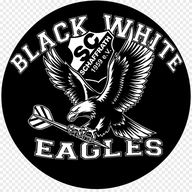
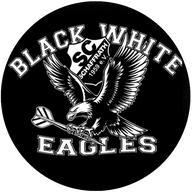
Add files via upload

diff --git a/vereinsspieltag.js b/vereinsspieltag.js
@@ -39,24 +39,68 @@ function renderAttendance(){$('attendanceList').innerHTML=state.members.length?s
 function bracketSize(n){return n<=4?4:n<=8?8:16}
 function shuffle(a){a=[...a];for(let i=a.length-1;i>0;i--){const j=Math.floor(Math.random()*(i+1));[a[i],a[j]]=[a[j],a[i]]}return a}
 function memberName(id){return state.members.find(m=>m.id===id)?.name||'Offen'}
+function collectRoundConfig(){const cfg={};document.querySelectorAll('[data-round-config]').forEach(row=>{cfg[row.dataset.roundConfig]={format:row.querySelector('[data-format]').value,toWin:+row.querySelector('[data-win]').value||3,legsPerSet:+row.querySelector('[data-legs-set]').value||3}});return cfg}
+function roundRule(c,r){return c.roundConfig?.[r]||{format:'legs',toWin:c.legsToWin||3,legsPerSet:3}}
+function ruleText(rule){return rule.format==='sets'?`First to ${rule.toWin} Sets · ${rule.legsPerSet} Legs pro Set`:`First to ${rule.toWin} Legs`}
 function makeKO(ids,mode){const size=bracketSize(ids.length),slots=shuffle(ids).concat(Array(size-ids.length).fill(null));const names=size===16?['Achtelfinale','Viertelfinale','Halbfinale','Finale']:size===8?['Viertelfinale','Halbfinale','Finale']:['Halbfinale','Finale'];const matches={};names.forEach((r,ri)=>matches[r]=Array(size/2**(ri+1)).fill(0).map((_,i)=>({id:uid(),p1:ri?null:slots[i*2],p2:ri?null:slots[i*2+1],s1:null,s2:null,winner:null,completed:false,bye:false})));return{engine:'ko',mode,rounds:names,matches,size}}
 function autoAdvance(c){c.rounds.forEach((r,ri)=>c.matches[r].forEach((m,mi)=>{if(ri===0&&!m.completed&&((m.p1&&!m.p2)||(!m.p1&&m.p2))){m.winner=m.p1||m.p2;m.completed=true;m.bye=true}if(m.completed&&m.winner&&ri<c.rounds.length-1){const n=c.matches[c.rounds[ri+1]][Math.floor(mi/2)];if(mi%2===0)n.p1=m.winner;else n.p2=m.winner}}))}
-function swissStandings(c){const s={};c.attendees.forEach(id=>s[id]={id,mp:0,wins:0,legsFor:0,legsAgainst:0,opponents:[]});(c.swissMatches||[]).flat().forEach(m=>{if(!m.completed)return;if(m.bye){s[m.p1].mp+=2;s[m.p1].wins++;return}s[m.p1].legsFor+=m.s1;s[m.p1].legsAgainst+=m.s2;s[m.p2].legsFor+=m.s2;s[m.p2].legsAgainst+=m.s1;s[m.p1].opponents.push(m.p2);s[m.p2].opponents.push(m.p1);s[m.winner].mp+=2;s[m.winner].wins++});return Object.values(s).sort((a,b)=>b.mp-a.mp||(b.legsFor-b.legsAgainst)-(a.legsFor-a.legsAgainst)||b.legsFor-a.legsFor)}
-function pairSwiss(c){const played=new Set();(c.swissMatches||[]).flat().forEach(m=>{if(m.p1&&m.p2)played.add([m.p1,m.p2].sort().join('|'))});let pool=swissStandings(c).map(x=>x.id),matches=[];while(pool.length){const p1=pool.shift();if(!pool.length){matches.push({id:uid(),p1,p2:null,s1:1,s2:0,winner:p1,completed:true,bye:true});break}let idx=pool.findIndex(p2=>!played.has([p1,p2].sort().join('|')));if(idx<0)idx=0;const p2=pool.splice(idx,1)[0];matches.push({id:uid(),p1,p2,s1:null,s2:null,winner:null,completed:false,bye:false})}c.swissMatches.push(matches)}
+function swissStandings(c){const s={};c.attendees.forEach(id=>s[id]={id,mp:0,wins:0,legsFor:0,legsAgainst:0,opponents:[],byes:0,buchholz:0});(c.swissMatches||[]).flat().forEach(m=>{if(!m.completed)return;if(m.bye){s[m.p1].mp+=2;s[m.p1].wins++;s[m.p1].byes++;return}s[m.p1].legsFor+=m.s1;s[m.p1].legsAgainst+=m.s2;s[m.p2].legsFor+=m.s2;s[m.p2].legsAgainst+=m.s1;s[m.p1].opponents.push(m.p2);s[m.p2].opponents.push(m.p1);s[m.winner].mp+=2;s[m.winner].wins++});Object.values(s).forEach(x=>x.buchholz=x.opponents.reduce((sum,id)=>sum+(s[id]?.mp||0),0));return Object.values(s).sort((a,b)=>b.mp-a.mp||b.buchholz-a.buchholz||(b.legsFor-b.legsAgainst)-(a.legsFor-a.legsAgainst)||b.legsFor-a.legsFor)}
+function pairSwiss(c){const played=new Set();(c.swissMatches||[]).flat().forEach(m=>{if(m.p1&&m.p2)played.add([m.p1,m.p2].sort().join('|'))});let pool=swissStandings(c).map(x=>x.id),matches=[];if(pool.length%2===1){const standings=swissStandings(c);let byeId=[...standings].reverse().find(x=>x.byes===0)?.id||pool.at(-1);pool=pool.filter(id=>id!==byeId);matches.push({id:uid(),p1:byeId,p2:null,s1:1,s2:0,winner:byeId,completed:true,bye:true})}while(pool.length){const p1=pool.shift();let idx=pool.findIndex(p2=>!played.has([p1,p2].sort().join('|')));if(idx<0)idx=0;const p2=pool.splice(idx,1)[0];matches.push({id:uid(),p1,p2,s1:null,s2:null,winner:null,completed:false,bye:false})}c.swissMatches.push(matches)}
 
-function renderCurrent(){const c=state.current;if(!c){$('currentDayTitle').textContent='Aktueller Spieltag';$('currentDayInfo').textContent='Kein Spieltag gestartet.';$('currentStatus').textContent='Bereit';$('dayWorkspace').innerHTML='<div class="empty-state">Der Admin wählt im Bereich Verwaltung die anwesenden Spieler und den Turniermodus aus.</div>';return}$('currentDayTitle').textContent=MODES[c.mode];$('currentDayInfo').textContent=`${c.date} · ${c.attendees.length} Teilnehmer · ${c.out} · First to ${c.legsToWin} Legs`;$('currentStatus').textContent='Läuft';if(c.engine==='ko')renderKO(c);else if(c.engine==='swiss')renderSwiss(c);else renderManual(c)}
+function renderCurrent(){const c=state.current;if(!c){$('currentDayTitle').textContent='Aktueller Spieltag';$('currentDayInfo').textContent='Kein Spieltag gestartet.';$('currentStatus').textContent='Bereit';$('dayWorkspace').innerHTML='<div class="empty-state">Der Admin wählt im Bereich Verwaltung die anwesenden Spieler und den Turniermodus aus.</div>';return}$('currentDayTitle').textContent=MODES[c.mode];$('currentDayInfo').textContent=`${c.date} · ${c.attendees.length} Teilnehmer · ${c.out}`;$('currentStatus').textContent='Läuft';if(c.engine==='ko')renderKO(c);else if(c.engine==='swiss')renderSwiss(c);else if(c.engine==='groups')renderGroups(c);else renderManual(c)}
 function renderKO(c){autoAdvance(c);$('dayWorkspace').innerHTML=`<div class="bracket">${c.rounds.map(r=>`<div class="round-column"><h3>${r}</h3>${c.matches[r].map((m,i)=>koMatch(r,m,i)).join('')}</div>`).join('')}</div><div class="workspace-actions admin-only"><button id="finishCurrent" class="primary">Spieltag abschließen</button></div>`;document.querySelectorAll('[data-ko-save]').forEach(b=>b.onclick=()=>saveKOMatch(b.dataset.round,+b.dataset.index));const final=c.matches[c.rounds.at(-1)][0];$('finishCurrent').disabled=!final?.completed;$('finishCurrent').onclick=finishCurrent}
-function koMatch(r,m,i){const ready=m.p1&&m.p2&&!m.completed;return`<div class="match-card"><small>${r} ${i+1}</small><div class="match-player ${m.winner===m.p1?'winner':''}"><span>${m.p1?esc(memberName(m.p1)):'—'}</span><input id="a-${m.id}" type="number" min="0" value="${m.s1??''}" ${!ready||!isAdmin?'disabled':''}></div><div class="match-player ${m.winner===m.p2?'winner':''}"><span>${m.p2?esc(memberName(m.p2)):'—'}</span><input id="b-${m.id}" type="number" min="0" value="${m.s2??''}" ${!ready||!isAdmin?'disabled':''}></div>${m.bye?'<div class="bye">Freilos</div>':`<button data-ko-save="1" data-round="${r}" data-index="${i}" ${!ready||!isAdmin?'disabled':''}>Ergebnis speichern</button>`}</div>`}
-async function saveKOMatch(r,i){const m=state.current.matches[r][i],a=+$(`a-${m.id}`).value,b=+$(`b-${m.id}`).value;if(a===b||a<0||b<0)return toast('Bitte ein eindeutiges Ergebnis eintragen.');m.s1=a;m.s2=b;m.winner=a>b?m.p1:m.p2;m.completed=true;autoAdvance(state.current);await save();toast('Ergebnis gespeichert.')}
+function koMatch(r,m,i){const ready=m.p1&&m.p2&&!m.completed,rule=roundRule(state.current,r),setMode=rule.format==='sets';return`<div class="match-card"><small>${r} ${i+1}</small><span class="match-rule">${ruleText(rule)}</span><div class="match-player ${m.winner===m.p1?'winner':''}"><span>${m.p1?esc(memberName(m.p1)):'—'}</span><input id="a-${m.id}" type="number" min="0" value="${m.s1??''}" ${!ready||!isAdmin?'disabled':''}></div><div class="match-player ${m.winner===m.p2?'winner':''}"><span>${m.p2?esc(memberName(m.p2)):'—'}</span><input id="b-${m.id}" type="number" min="0" value="${m.s2??''}" ${!ready||!isAdmin?'disabled':''}></div>${setMode&&ready?`<div class="set-leg-inputs"><label>Legs ${esc(memberName(m.p1))}<input id="la-${m.id}" type="number" min="0" value="${m.legs1??''}"></label><label>Legs ${esc(memberName(m.p2))}<input id="lb-${m.id}" type="number" min="0" value="${m.legs2??''}"></label></div>`:''}${m.bye?'<div class="bye">Freilos</div>':`<button data-ko-save="1" data-round="${r}" data-index="${i}" ${!ready||!isAdmin?'disabled':''}>Ergebnis speichern</button>`}</div>`}
+async function saveKOMatch(r,i){const m=state.current.matches[r][i],rule=roundRule(state.current,r),a=+$(`a-${m.id}`).value,b=+$(`b-${m.id}`).value;if(a===b||a<0||b<0)return toast('Bitte ein eindeutiges Ergebnis eintragen.');if(Math.max(a,b)!==rule.toWin||Math.min(a,b)>=rule.toWin)return toast(`Der Sieger muss genau ${rule.toWin} ${rule.format==='sets'?'Sets':'Legs'} erreichen.`);m.s1=a;m.s2=b;m.legs1=rule.format==='sets'?+( $(`la-${m.id}`)?.value||0):a;m.legs2=rule.format==='sets'?+( $(`lb-${m.id}`)?.value||0):b;m.winner=a>b?m.p1:m.p2;m.completed=true;autoAdvance(state.current);await save();toast('Ergebnis gespeichert.')}
 
-function renderSwiss(c){const standings=swissStandings(c),round=c.swissMatches.length,current=c.swissMatches.at(-1)||[];const roundDone=current.length&&current.every(m=>m.completed);$('dayWorkspace').innerHTML=`<div class="swiss-header"><h3>Runde ${round} von ${c.totalRounds}</h3><span class="pill">Schweizer System</span></div><div class="table-scroll"><table class="swiss-table"><thead><tr><th>#</th><th>Spieler</th><th>MP</th><th>Siege</th><th>Leg-Diff.</th></tr></thead><tbody>${standings.map((x,i)=>`<tr><td>${i+1}</td><td>${esc(memberName(x.id))}</td><td>${x.mp}</td><td>${x.wins}</td><td>${x.legsFor-x.legsAgainst}</td></tr>`).join('')}</tbody></table></div><h3>Paarungen Runde ${round}</h3>${current.map((m,i)=>swissMatch(m,i)).join('')}<div class="workspace-actions admin-only">${round<c.totalRounds?`<button id="nextSwiss" class="primary" ${!roundDone?'disabled':''}>Nächste Runde auslosen</button>`:`<button id="finishCurrent" class="primary" ${!roundDone?'disabled':''}>Spieltag abschließen</button>`}</div>`;document.querySelectorAll('[data-swiss-save]').forEach(b=>b.onclick=()=>saveSwissMatch(+b.dataset.index));if($('nextSwiss'))$('nextSwiss').onclick=async()=>{pairSwiss(c);await save()};if($('finishCurrent'))$('finishCurrent').onclick=finishCurrent}
+function renderSwiss(c){const standings=swissStandings(c),round=c.swissMatches.length,current=c.swissMatches.at(-1)||[];const roundDone=current.length&&current.every(m=>m.completed);$('dayWorkspace').innerHTML=`<div class="swiss-header"><h3>Runde ${round} von ${c.totalRounds}</h3><span class="pill">Schweizer System</span></div><div class="table-scroll"><table class="swiss-table"><thead><tr><th>#</th><th>Spieler</th><th>MP</th><th>Buchholz</th><th>Siege</th><th>Leg-Diff.</th></tr></thead><tbody>${standings.map((x,i)=>`<tr><td>${i+1}</td><td>${esc(memberName(x.id))}</td><td>${x.mp}</td><td>${x.buchholz}</td><td>${x.wins}</td><td>${x.legsFor-x.legsAgainst}</td></tr>`).join('')}</tbody></table></div><h3>Paarungen Runde ${round}</h3>${current.map((m,i)=>swissMatch(m,i)).join('')}<div class="workspace-actions admin-only">${round<c.totalRounds?`<button id="nextSwiss" class="primary" ${!roundDone?'disabled':''}>Nächste Runde auslosen</button>`:`<button id="finishCurrent" class="primary" ${!roundDone?'disabled':''}>Spieltag abschließen</button>`}</div>`;document.querySelectorAll('[data-swiss-save]').forEach(b=>b.onclick=()=>saveSwissMatch(+b.dataset.index));if($('nextSwiss'))$('nextSwiss').onclick=async()=>{pairSwiss(c);await save()};if($('finishCurrent'))$('finishCurrent').onclick=finishCurrent}
 function swissMatch(m,i){if(m.bye)return`<div class="swiss-match"><strong>${esc(memberName(m.p1))}</strong> – Freilos</div>`;return`<div class="swiss-match"><div class="match-player"><span>${esc(memberName(m.p1))}</span><input id="sa-${m.id}" type="number" min="0" value="${m.s1??''}" ${m.completed||!isAdmin?'disabled':''}></div><div class="match-player"><span>${esc(memberName(m.p2))}</span><input id="sb-${m.id}" type="number" min="0" value="${m.s2??''}" ${m.completed||!isAdmin?'disabled':''}></div><button data-swiss-save="1" data-index="${i}" ${m.completed||!isAdmin?'disabled':''}>Ergebnis speichern</button></div>`}
-async function saveSwissMatch(i){const m=state.current.swissMatches.at(-1)[i],a=+$(`sa-${m.id}`).value,b=+$(`sb-${m.id}`).value;if(a===b||a<0||b<0)return toast('Bitte ein eindeutiges Ergebnis eintragen.');m.s1=a;m.s2=b;m.winner=a>b?m.p1:m.p2;m.completed=true;await save()}
+async function saveSwissMatch(i){const m=state.current.swissMatches.at(-1)[i],a=+$(`sa-${m.id}`).value,b=+$(`sb-${m.id}`).value;if(a===b||a<0||b<0)return toast('Bitte ein eindeutiges Ergebnis eintragen.');const target=state.current.legsToWin||3;if(Math.max(a,b)!==target||Math.min(a,b)>=target)return toast(`Der Sieger muss genau ${target} Legs erreichen.`);m.s1=a;m.s2=b;m.winner=a>b?m.p1:m.p2;m.completed=true;await save()}
+
+
+function autoGroupCount(n){return n<=8?2:n<=12?3:4}
+function rankingPoints(id){return season()?.ranking?.[id]?.points||0}
+function makeGroups(ids,count,drawMode){
+  let ordered=drawMode==='seeded'?[...ids].sort((a,b)=>rankingPoints(b)-rankingPoints(a)||memberName(a).localeCompare(memberName(b),'de')):shuffle(ids);
+  const groups=Array.from({length:count},(_,i)=>({id:String.fromCharCode(65+i),players:[],matches:[]}));
+  if(drawMode==='seeded'){
+    let index=0,dir=1;
+    ordered.forEach(id=>{groups[index].players.push(id);if(dir===1&&index===groups.length-1)dir=-1;else if(dir===-1&&index===0)dir=1;else index+=dir});
+  }else ordered.forEach((id,i)=>groups[i%count].players.push(id));
+  groups.forEach(g=>{for(let i=0;i<g.players.length;i++)for(let j=i+1;j<g.players.length;j++)g.matches.push({id:uid(),p1:g.players[i],p2:g.players[j],s1:null,s2:null,winner:null,completed:false})});
+  return groups;
+}
+function groupStandings(g){
+  const map={};g.players.forEach(id=>map[id]={id,mp:0,wins:0,legsFor:0,legsAgainst:0});
+  g.matches.forEach(m=>{if(!m.completed)return;map[m.p1].legsFor+=m.s1;map[m.p1].legsAgainst+=m.s2;map[m.p2].legsFor+=m.s2;map[m.p2].legsAgainst+=m.s1;map[m.winner].mp+=2;map[m.winner].wins++});
+  return Object.values(map).sort((a,b)=>b.mp-a.mp||(b.legsFor-b.legsAgainst)-(a.legsFor-a.legsAgainst)||b.legsFor-a.legsFor||memberName(a.id).localeCompare(memberName(b.id),'de'));
+}
+function allGroupMatchesDone(c){return c.groups.every(g=>g.matches.every(m=>m.completed))}
+function renderGroups(c){
+  const done=allGroupMatchesDone(c);
+  $('dayWorkspace').innerHTML=`<div class="group-phase-head"><div><h3>Gruppenphase</h3><p>${c.groups.length} Gruppen · Weiter: ${c.qualifyPlaces.map(x=>'Platz '+x).join(', ')}</p></div><span class="pill">${done?'Bereit für K.-o.':'Läuft'}</span></div><div class="group-grid">${c.groups.map(g=>groupCard(c,g)).join('')}</div><div class="workspace-actions admin-only"><button id="createGroupKO" class="primary" ${!done?'disabled':''}>K.-o.-Phase erstellen</button></div>`;
+  document.querySelectorAll('[data-group-save]').forEach(b=>b.onclick=()=>saveGroupMatch(b.dataset.group,+b.dataset.index));
+  $('createGroupKO').onclick=createGroupKO;
+}
+function groupCard(c,g){const standings=groupStandings(g);return`<article class="group-card"><h3>Gruppe ${g.id}</h3><table class="group-table"><thead><tr><th>#</th><th>Spieler</th><th>SP</th><th>S</th><th>Diff.</th></tr></thead><tbody>${standings.map((x,i)=>`<tr class="${c.qualifyPlaces.includes(i+1)?'qualified-row':''}"><td>${i+1}</td><td>${esc(memberName(x.id))}</td><td>${x.mp}</td><td>${x.wins}</td><td>${x.legsFor-x.legsAgainst}</td></tr>`).join('')}</tbody></table>${g.matches.map((m,i)=>groupMatch(c,g,m,i)).join('')}</article>`}
+function groupMatch(c,g,m,i){return`<div class="group-match"><div class="match-player ${m.winner===m.p1?'winner':''}"><span>${esc(memberName(m.p1))}</span><input id="ga-${m.id}" type="number" min="0" value="${m.s1??''}" ${m.completed||!isAdmin?'disabled':''}></div><div class="match-player ${m.winner===m.p2?'winner':''}"><span>${esc(memberName(m.p2))}</span><input id="gb-${m.id}" type="number" min="0" value="${m.s2??''}" ${m.completed||!isAdmin?'disabled':''}></div><button data-group-save="1" data-group="${g.id}" data-index="${i}" ${m.completed||!isAdmin?'disabled':''}>Ergebnis speichern</button></div>`}
+async function saveGroupMatch(groupId,i){const g=state.current.groups.find(x=>x.id===groupId),m=g.matches[i],a=+$(`ga-${m.id}`).value,b=+$(`gb-${m.id}`).value,target=state.current.groupLegsToWin||3;if(a===b||a<0||b<0)return toast('Bitte ein eindeutiges Ergebnis eintragen.');if(Math.max(a,b)!==target||Math.min(a,b)>=target)return toast(`Der Sieger muss genau ${target} Legs erreichen.`);m.s1=a;m.s2=b;m.winner=a>b?m.p1:m.p2;m.completed=true;await save();toast('Gruppenergebnis gespeichert.')}
+function createGroupKO(){
+  const c=state.current,qualified=[];
+  c.groups.forEach(g=>{const table=groupStandings(g);c.qualifyPlaces.forEach(place=>{const x=table[place-1];if(x)qualified.push({...x,group:g.id,groupPlace:place})})});
+  if(qualified.length<2)return toast('Es kommen zu wenige Spieler weiter.');
+  if(qualified.length>16)return toast('Maximal 16 Spieler können in die K.-o.-Phase einziehen.');
+  qualified.sort((a,b)=>a.groupPlace-b.groupPlace||b.mp-a.mp||(b.legsFor-b.legsAgainst)-(a.legsFor-a.legsAgainst));
+  const size=bracketSize(qualified.length),slots=Array(size).fill(null),pool=[...qualified];
+  for(let i=0;i<Math.ceil(size/2);i++){const a=pool.shift();if(!a)break;slots[i*2]=a.id;let idx=pool.length-1;while(idx>0&&pool[idx].group===a.group)idx--;const b=pool.splice(Math.max(0,idx),1)[0];if(b)slots[i*2+1]=b.id}
+  const names=size===16?['Achtelfinale','Viertelfinale','Halbfinale','Finale']:size===8?['Viertelfinale','Halbfinale','Finale']:['Halbfinale','Finale'],matches={};
+  names.forEach((r,ri)=>matches[r]=Array(size/2**(ri+1)).fill(0).map((_,i)=>({id:uid(),p1:ri?null:slots[i*2],p2:ri?null:slots[i*2+1],s1:null,s2:null,winner:null,completed:false,bye:false})));
+  c.groupData={groups:c.groups,qualifyPlaces:c.qualifyPlaces,groupLegsToWin:c.groupLegsToWin,qualifiedIds:qualified.map(x=>x.id)};c.engine='ko';c.rounds=names;c.matches=matches;c.size=size;autoAdvance(c);save();toast('K.-o.-Phase erstellt.');
+}
 
 function renderManual(c){$('dayWorkspace').innerHTML=`<div class="empty-state"><h3>${MODES[c.mode]}</h3><p>${c.mode==='doubleko'?'Die Partien werden im Doppel-K.-o. gespielt. Nach dem letzten Spiel trägst du hier die endgültigen Platzierungen ein.':'Nach Gruppenphase und K.-o.-Runde trägst du hier die endgültigen Platzierungen ein.'}</p></div><div class="manual-grid">${c.attendees.map(id=>`<div class="manual-row"><strong>#</strong><span>${esc(memberName(id))}</span><select data-place="${id}">${c.attendees.map((_,i)=>`<option value="${i+1}">${i+1}. Platz</option>`).join('')}</select></div>`).join('')}</div><div class="workspace-actions admin-only"><button id="finishCurrent" class="primary">Platzierungen prüfen und Spieltag abschließen</button></div>`;$('finishCurrent').onclick=finishCurrent}
 
 function placementPoints(n,place){const group=n>=13?[20,15,11,11,7,7,7,7,3]:n>=9?[18,13,9,9,5,5,5,5,3]:n>=5?[15,10,6,6,2]:[10,6,2];return group[Math.min(place-1,group.length-1)]||group.at(-1)}
-function resultsFor(c){if(c.engine==='swiss')return swissStandings(c).map((x,i)=>({id:x.id,place:i+1,wins:x.wins,legsFor:x.legsFor,legsAgainst:x.legsAgainst}));if(c.engine==='manual'){const vals=[...document.querySelectorAll('[data-place]')].map(x=>({id:x.dataset.place,place:+x.value}));if(new Set(vals.map(x=>x.place)).size!==vals.length)throw new Error('Jede Platzierung darf nur einmal vergeben werden.');return vals.sort((a,b)=>a.place-b.place).map(x=>({...x,wins:0,legsFor:0,legsAgainst:0}))}const losses={},stats={};c.attendees.forEach(id=>stats[id]={wins:0,legsFor:0,legsAgainst:0});c.rounds.forEach(r=>c.matches[r].forEach(m=>{if(!m.completed)return;const loser=m.winner===m.p1?m.p2:m.p1;if(loser)losses[loser]=r;if(!m.bye&&m.p1&&m.p2){stats[m.winner].wins++;stats[m.p1].legsFor+=m.s1;stats[m.p1].legsAgainst+=m.s2;stats[m.p2].legsFor+=m.s2;stats[m.p2].legsAgainst+=m.s1}}));const final=c.matches[c.rounds.at(-1)][0],winner=final.winner;return c.attendees.map(id=>{let place=id===winner?1:losses[id]==='Finale'?2:losses[id]==='Halbfinale'?3:losses[id]==='Viertelfinale'?5:9;return{id,place,...stats[id]}}).sort((a,b)=>a.place-b.place)}
+function resultsFor(c){if(c.engine==='swiss')return swissStandings(c).map((x,i)=>({id:x.id,place:i+1,wins:x.wins,legsFor:x.legsFor,legsAgainst:x.legsAgainst}));if(c.engine==='manual'){const vals=[...document.querySelectorAll('[data-place]')].map(x=>({id:x.dataset.place,place:+x.value}));if(new Set(vals.map(x=>x.place)).size!==vals.length)throw new Error('Jede Platzierung darf nur einmal vergeben werden.');return vals.sort((a,b)=>a.place-b.place).map(x=>({...x,wins:0,legsFor:0,legsAgainst:0}))}const losses={},stats={};c.attendees.forEach(id=>stats[id]={wins:0,legsFor:0,legsAgainst:0});if(c.groupData?.groups)c.groupData.groups.forEach(g=>g.matches.forEach(m=>{if(!m.completed)return;stats[m.winner].wins++;stats[m.p1].legsFor+=m.s1;stats[m.p1].legsAgainst+=m.s2;stats[m.p2].legsFor+=m.s2;stats[m.p2].legsAgainst+=m.s1}));c.rounds.forEach(r=>c.matches[r].forEach(m=>{if(!m.completed)return;const loser=m.winner===m.p1?m.p2:m.p1;if(loser)losses[loser]=r;if(!m.bye&&m.p1&&m.p2){stats[m.winner].wins++;const l1=m.legs1??m.s1,l2=m.legs2??m.s2;stats[m.p1].legsFor+=l1;stats[m.p1].legsAgainst+=l2;stats[m.p2].legsFor+=l2;stats[m.p2].legsAgainst+=l1}}));const final=c.matches[c.rounds.at(-1)][0],winner=final.winner;return c.attendees.map(id=>{let place=id===winner?1:losses[id]==='Finale'?2:losses[id]==='Halbfinale'?3:losses[id]==='Viertelfinale'?5:9;return{id,place,...stats[id]}}).sort((a,b)=>a.place-b.place)}
 async function finishCurrent(){try{const c=state.current,s=season(),results=resultsFor(c);results.forEach(r=>{const base=s.ranking[r.id]||emptyStats(),pts=placementPoints(c.attendees.length,r.place)+(r.wins||0);base.points+=pts;base.days++;base.wins+=r.wins||0;base.titles+=r.place===1?1:0;base.legsFor+=r.legsFor||0;base.legsAgainst+=r.legsAgainst||0;base.byMode??={};const bm=base.byMode[c.mode]||emptyStats();bm.points+=pts;bm.days++;bm.wins+=r.wins||0;bm.titles+=r.place===1?1:0;bm.legsFor+=r.legsFor||0;bm.legsAgainst+=r.legsAgainst||0;base.byMode[c.mode]=bm;base.history??=[];base.history.push({dayId:c.id,date:c.date,mode:c.mode,place:r.place,points:pts});s.ranking[r.id]=base});const day={...c,results,finishedAt:new Date().toISOString()};s.days.push(day);state.current=null;await save();toast('Spieltag abgeschlossen und Punkte gebucht.')}catch(e){toast(e.message||'Spieltagsabschluss nicht möglich.')}}
 
 function renderHistory(){const s=season(),days=[...(s?.days||[])].reverse();$('historyList').innerHTML=days.length?days.map(d=>{const top=[...(d.results||[])].sort((a,b)=>a.place-b.place).slice(0,3);return`<article class="history-card"><div class="history-card-head"><div><h3>${esc(d.date)}</h3><p>${d.attendees.length} Teilnehmer · ${esc(d.out||'')}</p></div><span class="mode-badge">${MODES[d.mode]}</span></div><div class="history-podium">${top.map(x=>`${x.place}. ${esc(memberName(x.id))}`).join(' · ')}</div></article>`}).join(''):'<div class="empty-state">Noch keine abgeschlossenen Spieltage.</div>'}
@@ -65,9 +109,11 @@ function openProfile(id){const m=state.members.find(x=>x.id===id),st=statFor(sea
 function closeSeasonPicker(){$('seasonPickerMenu').hidden=true;$('seasonPickerButton').setAttribute('aria-expanded','false')}
 $('seasonPickerButton').onclick=e=>{e.stopPropagation();const menu=$('seasonPickerMenu');menu.hidden=!menu.hidden;$('seasonPickerButton').setAttribute('aria-expanded',String(!menu.hidden))};document.addEventListener('click',e=>{if(!e.target.closest('.season-picker'))closeSeasonPicker()});$('modeFilter').onchange=renderRanking;$('closeProfile').onclick=()=>$('profileModal').hidden=true;$('profileModal').onclick=e=>{if(e.target===$('profileModal'))$('profileModal').hidden=true};
 $('createSeasonBtn').onclick=async()=>{const name=$('newSeasonName').value.trim();if(!name)return toast('Bitte einen Saisonnamen eingeben.');const s=blankSeason(name);state.members.forEach(m=>s.ranking[m.id]=emptyStats());state.seasons.push(s);state.activeSeasonId=s.id;$('newSeasonName').value='';await save();toast('Neue Saison angelegt.')};$('syncMembersBtn').onclick=()=>syncMembers(true);
-$('dayMode').onchange=()=>{$('swissRoundsWrap').hidden=$('dayMode').value!=='swiss'};
-$('startDayBtn').onclick=async()=>{if(state.current)return toast('Es läuft bereits ein Spieltag.');const ids=[...document.querySelectorAll('[data-attend]:checked')].map(x=>x.dataset.attend),mode=$('dayMode').value;if(ids.length<3)return toast('Mindestens 3 Spieler müssen anwesend sein.');if(ids.length>16)return toast('Maximal 16 Spieler möglich.');const common={id:uid(),date:$('dayDate').value||new Date().toISOString().slice(0,10),mode,out:$('gameOut').value,legsToWin:+$('legsToWin').value||3,attendees:ids,startedAt:new Date().toISOString()};if(mode==='premier')state.current={...common,...makeKO(ids,mode)};else if(mode==='swiss'){state.current={...common,engine:'swiss',totalRounds:+$('swissRounds').value||4,swissMatches:[]};pairSwiss(state.current)}else state.current={...common,engine:'manual'};await save();document.querySelector('[data-tab="spieltag"]').click();toast('Spieltag gestartet.')};
+$('dayMode').onchange=()=>{const mode=$('dayMode').value,swiss=mode==='swiss',groups=mode==='groupsko';$('swissRoundsWrap').hidden=!swiss;$('swissFormatWrap').hidden=!swiss;$('groupsConfigWrap').hidden=!groups;$('koRoundSettings').hidden=swiss};
+$('startDayBtn').onclick=async()=>{if(state.current)return toast('Es läuft bereits ein Spieltag.');const ids=[...document.querySelectorAll('[data-attend]:checked')].map(x=>x.dataset.attend),mode=$('dayMode').value;if(ids.length<3)return toast('Mindestens 3 Spieler müssen anwesend sein.');if(ids.length>16)return toast('Maximal 16 Spieler möglich.');const common={id:uid(),date:$('dayDate').value||new Date().toISOString().slice(0,10),mode,out:$('gameOut').value,legsToWin:+$('swissLegsToWin').value||3,roundConfig:collectRoundConfig(),attendees:ids,startedAt:new Date().toISOString()};if(mode==='premier')state.current={...common,...makeKO(ids,mode)};else if(mode==='swiss'){state.current={...common,engine:'swiss',totalRounds:+$('swissRounds').value||4,swissMatches:[]};pairSwiss(state.current)}else if(mode==='groupsko'){const selected=[...document.querySelectorAll('[data-qualify-place]:checked')].map(x=>+x.value).sort((a,b)=>a-b);if(!selected.length)return toast('Mindestens eine Gruppenplatzierung muss weiterkommen.');const raw=$('groupCount').value,count=raw==='auto'?autoGroupCount(ids.length):+raw;if(count<2||count>ids.length)return toast('Die Gruppenanzahl passt nicht zur Teilnehmerzahl.');const groups=makeGroups(ids,count,$('groupDrawMode').value);const minSize=Math.min(...groups.map(g=>g.players.length));if(selected.some(x=>x>minSize))return toast(`Bei dieser Verteilung hat die kleinste Gruppe nur ${minSize} Spieler.`);state.current={...common,engine:'groups',groups,qualifyPlaces:selected,groupLegsToWin:+$('groupLegsToWin').value||3};}else state.current={...common,engine:'manual'};await save();document.querySelector('[data-tab="spieltag"]').click();toast('Spieltag gestartet.')};
 
 document.querySelectorAll('.serie-tabs button').forEach(b=>b.onclick=()=>{document.querySelectorAll('.serie-tabs button').forEach(x=>x.classList.toggle('active',x===b));document.querySelectorAll('.serie-panel').forEach(x=>x.classList.toggle('active',x.id===`tab-${b.dataset.tab}`))});
 $('dayDate').value=new Date().toISOString().slice(0,10);
 load().catch(e=>{console.error(e);toast('Daten konnten nicht geladen werden. Prüfe die Firestore-Regeln.')});
+
+$('dayMode').onchange();

diff --git a/vereinsspieltag.html b/vereinsspieltag.html
@@ -4,14 +4,14 @@
   <meta charset="UTF-8">
   <meta name="viewport" content="width=device-width, initial-scale=1.0">
   <title>Black White Eagles Vereinsrangliste</title>
-  <link rel="stylesheet" href="style.css">
-  <link rel="stylesheet" href="vereinsspieltag.css">
+  <link rel="stylesheet" href="style.css?v=9">
+  <link rel="stylesheet" href="vereinsspieltag.css?v=9">
   <link rel="manifest" href="manifest.json">
   <meta name="theme-color" content="#000000">
 </head>
 <body>
 <header class="app-header">
-  <img src="black-white-eagles-logo.png" class="logo" alt="Black White Eagles Logo">
+  <img src="black-white-eagles-logo.png?v=9" class="logo" alt="Black White Eagles Logo">
   <h1>Vereinsrangliste</h1>
   <p>Interne Spieltage in verschiedenen Turniersystemen</p>
 </header>
@@ -91,11 +91,47 @@
           <option value="doubleko">Doppel-K.-o.</option>
           <option value="groupsko">Gruppen + K.-o.</option>
         </select></label>
-        <div class="two-cols">
-          <label>Spielmodus<select id="gameOut"><option>Double Out</option><option>Master Out</option><option>Single Out</option></select></label>
-          <label>Gewinn-Legs<input id="legsToWin" type="number" min="1" max="15" value="3"></label>
-        </div>
+        <label>Spielmodus<select id="gameOut"><option>Double Out</option><option>Master Out</option><option>Single Out</option></select></label>
         <label id="swissRoundsWrap" hidden>Schweizer Runden<input id="swissRounds" type="number" min="2" max="8" value="4"></label>
+
+        <div id="groupsConfigWrap" class="groups-config" hidden>
+          <h3>Gruppenphase einstellen</h3>
+          <div class="two-cols">
+            <label>Anzahl Gruppen<select id="groupCount">
+              <option value="auto">Automatisch</option>
+              <option value="2">2 Gruppen</option>
+              <option value="3">3 Gruppen</option>
+              <option value="4">4 Gruppen</option>
+              <option value="5">5 Gruppen</option>
+              <option value="6">6 Gruppen</option>
+            </select></label>
+            <label>Gruppenauslosung<select id="groupDrawMode">
+              <option value="random">Zufällig</option>
+              <option value="seeded">Nach Vereinsrangliste setzen</option>
+            </select></label>
+          </div>
+          <fieldset class="qualifier-fieldset">
+            <legend>Welche Gruppenplätze kommen weiter?</legend>
+            <label><input type="checkbox" data-qualify-place value="1" checked> Platz 1</label>
+            <label><input type="checkbox" data-qualify-place value="2" checked> Platz 2</label>
+            <label><input type="checkbox" data-qualify-place value="3"> Platz 3</label>
+            <label><input type="checkbox" data-qualify-place value="4"> Platz 4</label>
+          </fieldset>
+          <label>Gewinn-Legs in der Gruppenphase<input id="groupLegsToWin" type="number" min="1" max="15" value="3"></label>
+          <p class="hint">Die App verteilt alle Anwesenden möglichst gleichmäßig. Die K.-o.-Größe und Freilose werden automatisch berechnet.</p>
+        </div>
+
+        <div id="swissFormatWrap" class="two-cols" hidden>
+          <label>Gewinn-Legs je Partie<input id="swissLegsToWin" type="number" min="1" max="15" value="3"></label>
+        </div>
+
+        <div id="koRoundSettings" class="round-settings">
+          <h3>Legs und Sets je K.-o.-Phase</h3>
+          <div class="round-setting-row" data-round-config="Achtelfinale"><strong>Achtelfinale</strong><label>System<select data-format><option value="legs">Legs</option><option value="sets">Sets</option></select></label><label>Gewinn<input data-win type="number" min="1" max="15" value="3"></label><label>Legs je Set<input data-legs-set type="number" min="1" max="9" value="3"></label></div>
+          <div class="round-setting-row" data-round-config="Viertelfinale"><strong>Viertelfinale</strong><label>System<select data-format><option value="legs">Legs</option><option value="sets">Sets</option></select></label><label>Gewinn<input data-win type="number" min="1" max="15" value="3"></label><label>Legs je Set<input data-legs-set type="number" min="1" max="9" value="3"></label></div>
+          <div class="round-setting-row" data-round-config="Halbfinale"><strong>Halbfinale</strong><label>System<select data-format><option value="legs">Legs</option><option value="sets">Sets</option></select></label><label>Gewinn<input data-win type="number" min="1" max="15" value="4"></label><label>Legs je Set<input data-legs-set type="number" min="1" max="9" value="3"></label></div>
+          <div class="round-setting-row" data-round-config="Finale"><strong>Finale</strong><label>System<select data-format><option value="legs">Legs</option><option value="sets">Sets</option></select></label><label>Gewinn<input data-win type="number" min="1" max="15" value="5"></label><label>Legs je Set<input data-legs-set type="number" min="1" max="9" value="3"></label></div>
+        </div>
         <div id="attendanceList" class="attendance-list"></div>
         <button id="startDayBtn" class="primary">Anwesende auswählen und starten</button>
       </article>
@@ -107,6 +143,6 @@
 
 <div id="profileModal" class="modal" hidden><div class="modal-card"><button id="closeProfile" class="modal-close">×</button><div id="profileContent"></div></div></div>
 <div id="toast" class="serie-toast"></div>
-<script type="module" src="vereinsspieltag.js?v=8"></script>
+<script type="module" src="vereinsspieltag.js?v=10"></script>
 </body>
 </html>

diff --git a/vereinsspieltag.css b/vereinsspieltag.css
@@ -8,3 +8,21 @@
 .history-list{display:grid;gap:10px}.history-card{background:#191919;border:1px solid #383838;border-radius:14px;padding:14px}.history-card-head{display:flex;justify-content:space-between;gap:12px}.history-card h3{margin:0}.history-card p{color:#bbb;margin:5px 0}.history-podium{font-size:.9rem}.mode-badge{display:inline-block;background:#fff;color:#000;border-radius:999px;padding:4px 8px;font-size:.75rem;font-weight:900}
 .modal{position:fixed;inset:0;background:#000c;z-index:9999;display:grid;place-items:center;padding:18px}.modal-card{position:relative;background:#111;border:1px solid #555;border-radius:18px;padding:22px;width:min(620px,95vw);max-height:85vh;overflow:auto}.modal-close{position:absolute;right:12px;top:9px;background:none;border:0;color:#fff;font-size:2rem}.profile-stats{display:grid;grid-template-columns:repeat(3,1fr);gap:8px}.profile-stats div{background:#1c1c1c;border-radius:11px;padding:11px;text-align:center}.profile-stats strong{display:block;font-size:1.25rem}.profile-history{margin-top:14px}.profile-history-row{display:grid;grid-template-columns:1fr 1fr 60px;gap:8px;border-bottom:1px solid #333;padding:8px 0}.serie-toast{position:fixed;left:50%;bottom:86px;transform:translate(-50%,20px);opacity:0;background:#fff;color:#000;padding:10px 16px;border-radius:999px;z-index:10000;font-weight:900;transition:.2s}.serie-toast.show{opacity:1;transform:translate(-50%,0)}
 @media(max-width:720px){.summary-grid{grid-template-columns:repeat(2,1fr)}.serie-tabs{grid-template-columns:repeat(2,1fr)}.admin-grid{grid-template-columns:1fr}.season-bar,.panel-head{align-items:flex-start;flex-direction:column}.season-picker,.panel-head select{max-width:none;width:100%}.two-cols{grid-template-columns:1fr}.profile-stats{grid-template-columns:repeat(2,1fr)}}
+
+
+/* BWE V9 – Lesbarkeit und eigene Format-Einstellungen */
+.season-bar, .season-bar * { color:#000 !important; }
+.season-bar h2, .season-bar .eyebrow { color:#000 !important; opacity:1 !important; }
+.season-picker button { background:#000 !important; color:#fff !important; border:1px solid #000 !important; }
+.season-picker-menu { background:#111 !important; color:#fff !important; border:1px solid #555 !important; }
+.season-picker-menu button { background:#111 !important; color:#fff !important; border:0 !important; }
+.round-settings { display:grid; gap:10px; margin:14px 0; }
+.round-settings h3 { margin:4px 0; }
+.round-setting-row { display:grid; grid-template-columns:minmax(120px,1fr) minmax(130px,1fr) 90px 110px; gap:8px; align-items:end; padding:10px; border:1px solid #3b3b3b; border-radius:12px; background:#161616; }
+.round-setting-row strong { align-self:center; }
+.round-setting-row label { margin:0 !important; font-size:.8rem; }
+.match-rule { display:block; color:#bbb; margin:3px 0 8px; font-size:.78rem; }
+.set-leg-inputs { display:grid; grid-template-columns:1fr 1fr; gap:8px; margin:6px 0; }
+.set-leg-inputs label { font-size:.75rem; color:#bbb; }
+@media(max-width:720px){.round-setting-row{grid-template-columns:1fr 1fr}.round-setting-row strong{grid-column:1/-1}.set-leg-inputs{grid-template-columns:1fr 1fr}}
+.groups-config{margin:14px 0;padding:14px;border:1px solid #3b3b3b;border-radius:14px;background:#101010}.groups-config h3{margin-top:0}.qualifier-fieldset{display:flex;gap:12px;flex-wrap:wrap;border:1px solid #444;border-radius:12px;padding:12px;margin:12px 0}.qualifier-fieldset legend{padding:0 7px;font-weight:800}.qualifier-fieldset label{display:flex!important;flex-direction:row!important;align-items:center;gap:6px;margin:0!important}.group-grid{display:grid;grid-template-columns:repeat(auto-fit,minmax(280px,1fr));gap:14px}.group-card{background:#171717;border:1px solid #3b3b3b;border-radius:14px;padding:13px}.group-table{width:100%;border-collapse:collapse;margin-bottom:12px}.group-table th,.group-table td{padding:8px 5px;border-bottom:1px solid #303030;text-align:center}.group-table th:nth-child(2),.group-table td:nth-child(2){text-align:left}.qualified-row{background:#252525}.group-match{background:#101010;border:1px solid #333;border-radius:10px;padding:9px;margin:8px 0}.group-phase-head{display:flex;justify-content:space-between;align-items:center;gap:10px;margin-bottom:12px}

diff --git a/style.css b/style.css
@@ -2418,3 +2418,20 @@ input, select, textarea {
   .liga-iframe-card { padding: 8px; }
   .liga-iframe-card iframe { height: 78vh; border-radius: 10px; }
 }
+
+
+/* BWE V9 – Login/Registrierung endgültig Schwarz-Weiß */
+body .konto-card,
+body .konto-container .info-card { background:#151515 !important; border:1px solid #555 !important; }
+body .konto-card input,
+body .konto-card select { background:#101010 !important; color:#fff !important; border:1px solid #666 !important; }
+body .konto-card button,
+body .konto-card #loginButton,
+body .konto-card #passwordChangeButton,
+body .konto-card #registerButton { background:#fff !important; color:#000 !important; border:1px solid #fff !important; }
+body .konto-link-button { background:#161616 !important; color:#fff !important; border:1px solid #fff !important; }
+body .konto-check a { color:#fff !important; text-decoration:underline; }
+body .konto-meldung.fehler { background:#252525 !important; color:#fff !important; border:1px solid #aaa !important; }
+body .konto-meldung.erfolg { background:#202020 !important; color:#fff !important; border:1px solid #fff !important; }
+body .app-header { background:linear-gradient(145deg,#000,#242424) !important; }
+body .app-header::before, body .app-header::after { display:none !important; }

diff --git a/kalender.html b/kalender.html
@@ -4,7 +4,7 @@
   <meta charset="UTF-8">
   <meta name="viewport" content="width=device-width, initial-scale=1.0">
   <title>Black White Eagles Kalender</title>
-  <link rel="stylesheet" href="style.css">
+  <link rel="stylesheet" href="style.css?v=9">
   <link rel="manifest" href="manifest.json">
 
 <meta name="theme-color" content="#000000">
@@ -19,7 +19,7 @@
 <body>
 
 <header class="app-header">
-  <img src="black-white-eagles-logo.png" class="logo" alt="Black White Eagles Logo">
+  <img src="black-white-eagles-logo.png?v=9" class="logo" alt="Black White Eagles Logo">
   <h1>Mitglieder-Kalender</h1>
   <p>Spieltage, Termine & Eintragungen</p>
   <p id="userInfo" class="user-info"></p>
@@ -124,7 +124,7 @@
 <script type="module" src="kalender.js"></script>
 <div id="reminderPopup" class="reminder-popup" style="display:none;">
   <div class="reminder-card">
-    <img src="black-white-eagles-logo.png" class="reminder-logo" alt="Black White Eagles Logo">
+    <img src="black-white-eagles-logo.png?v=9" class="reminder-logo" alt="Black White Eagles Logo">
 
     <h2>🔔 Erinnerung</h2>
 

diff --git a/benachrichtigungen.html b/benachrichtigungen.html
@@ -4,8 +4,8 @@
   <meta charset="UTF-8">
   <meta name="viewport" content="width=device-width, initial-scale=1.0">
   <title>Benachrichtigungen | Black White Eagles</title>
-  <link rel="stylesheet" href="style.css">
-  <link rel="stylesheet" href="konto.css">
+  <link rel="stylesheet" href="style.css?v=9">
+  <link rel="stylesheet" href="konto.css?v=9">
   <link rel="stylesheet" href="benachrichtigungen.css?v=6">
   <link rel="manifest" href="manifest.json">
   <meta name="theme-color" content="#000000">
@@ -14,7 +14,7 @@
 </head>
 <body>
 <header class="app-header">
-  <img src="black-white-eagles-logo.png" class="logo" alt="Black White Eagles Logo">
+  <img src="black-white-eagles-logo.png?v=9" class="logo" alt="Black White Eagles Logo">
   <h1>Benachrichtigungen</h1>
   <p>Spieltage und Vereinsmeldungen</p>
 </header>

diff --git a/kasse.html b/kasse.html
@@ -5,15 +5,15 @@
   <meta name="viewport" content="width=device-width, initial-scale=1.0">
   <title>Kasse | Black White Eagles</title>
   <meta name="theme-color" content="#000000">
-  <link rel="stylesheet" href="style.css">
-  <link rel="stylesheet" href="konto.css">
+  <link rel="stylesheet" href="style.css?v=9">
+  <link rel="stylesheet" href="konto.css?v=9">
   <link rel="stylesheet" href="kasse.css">
   <link rel="manifest" href="manifest.json">
   <link rel="apple-touch-icon" href="icon-192.png">
 </head>
 <body>
 <header class="app-header">
-  <img src="black-white-eagles-logo.png" class="logo" alt="Black White Eagles Logo">
+  <img src="black-white-eagles-logo.png?v=9" class="logo" alt="Black White Eagles Logo">
   <h1>Kassen-Center</h1>
   <p>Beiträge, Einnahmen und Ausgaben</p>
 </header>

diff --git a/welcome.html b/welcome.html
@@ -5,20 +5,20 @@
   <meta name="viewport" content="width=device-width, initial-scale=1.0">
   <title>Black White Eagles</title>
 
-  <link rel="stylesheet" href="style.css">
+  <link rel="stylesheet" href="style.css?v=9">
 </head>
 <link rel="apple-touch-icon" href="icon-192.png">
 <link rel="manifest" href="manifest.json">
 <body class="welcome-page">
 <div id="splashscreen">
-  <img src="black-white-eagles-logo.png" alt="Black White Eagles Logo">
+  <img src="black-white-eagles-logo.png?v=9" alt="Black White Eagles Logo">
   <h1>Black White Eagles</h1>
   <p>Vereinsportal</p>
 </div>  
 
 <div class="welcome-container">
 
-  <img src="black-white-eagles-logo.png" class="welcome-logo">
+  <img src="black-white-eagles-logo.png?v=9" class="welcome-logo">
 
   <h1>Black White Eagles</h1>
 

diff --git a/index.html b/index.html
@@ -17,8 +17,8 @@
   </script>
   <meta charset="UTF-8">
   <meta name="viewport" content="width=device-width, initial-scale=1.0">
-  <link rel="stylesheet" href="style.css">
-  <link rel="stylesheet" href="konto.css">
+  <link rel="stylesheet" href="style.css?v=9">
+  <link rel="stylesheet" href="konto.css?v=9">
   <link rel="manifest" href="manifest.json">
   <meta name="theme-color" content="#000000">
   <meta name="apple-mobile-web-app-capable" content="yes">
@@ -28,7 +28,7 @@
 </head>
 <body>
 <header class="app-header">
-  <img src="black-white-eagles-logo.png" class="logo" alt="Black White Eagles Logo">
+  <img src="black-white-eagles-logo.png?v=9" class="logo" alt="Black White Eagles Logo">
   <h1>Black White Eagles</h1>
   <p>Vereins-App für Turniere, Liga & mehr</p>
 </header>

diff --git a/konto-admin.html b/konto-admin.html
@@ -4,13 +4,13 @@
   <meta charset="UTF-8">
   <meta name="viewport" content="width=device-width, initial-scale=1.0">
   <title>Kontoverwaltung | Black White Eagles</title>
-  <link rel="stylesheet" href="style.css">
-  <link rel="stylesheet" href="konto.css">
+  <link rel="stylesheet" href="style.css?v=9">
+  <link rel="stylesheet" href="konto.css?v=9">
   <link rel="stylesheet" href="konto-admin.css">
 </head>
 <body>
 <header class="app-header">
-  <img src="black-white-eagles-logo.png" class="logo" alt="Black White Eagles Logo">
+  <img src="black-white-eagles-logo.png?v=9" class="logo" alt="Black White Eagles Logo">
   <h1>Kontoverwaltung</h1>
   <p>Benutzernamen, Rollen und Passwörter verwalten</p>
 </header>

diff --git a/registrieren.html b/registrieren.html
@@ -4,12 +4,12 @@
   <meta charset="UTF-8">
   <meta name="viewport" content="width=device-width, initial-scale=1.0">
   <title>Registrieren | Black White Eagles</title>
-  <link rel="stylesheet" href="style.css">
-  <link rel="stylesheet" href="konto.css">
+  <link rel="stylesheet" href="style.css?v=9">
+  <link rel="stylesheet" href="konto.css?v=9">
 </head>
 <body>
 <header class="app-header">
-  <img src="black-white-eagles-logo.png" class="logo" alt="Black White Eagles Logo">
+  <img src="black-white-eagles-logo.png?v=9" class="logo" alt="Black White Eagles Logo">
   <h1>Gastkonto erstellen</h1>
   <p>Eine E-Mail-Adresse ist nicht erforderlich</p>
 </header>

diff --git a/login.html b/login.html
@@ -4,12 +4,12 @@
   <meta charset="UTF-8">
   <meta name="viewport" content="width=device-width, initial-scale=1.0">
   <title>Login | Black White Eagles</title>
-  <link rel="stylesheet" href="style.css">
-  <link rel="stylesheet" href="konto.css">
+  <link rel="stylesheet" href="style.css?v=9">
+  <link rel="stylesheet" href="konto.css?v=9">
 </head>
 <body>
 <header class="app-header">
-  <img src="black-white-eagles-logo.png" class="logo" alt="Black White Eagles Logo">
+  <img src="black-white-eagles-logo.png?v=9" class="logo" alt="Black White Eagles Logo">
   <h1>Black White Eagles Login</h1>
   <p>Für Mitglieder und registrierte Gäste</p>
 </header>
